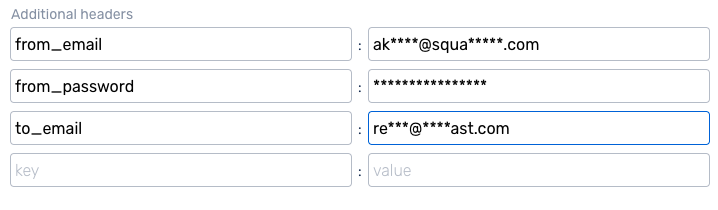
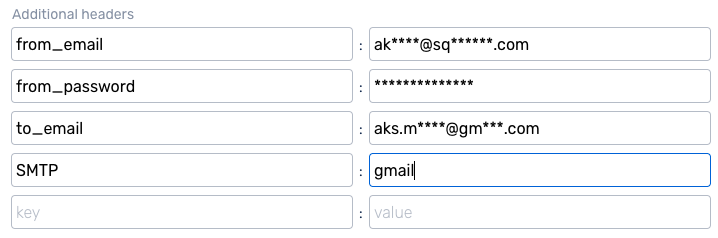
Readme Update

diff --git a/README.md b/README.md
@@ -54,5 +54,49 @@ Request Headers :-
 > URL : https://<Server-IP-Address>:5000/squadcast/middleware/email
 
 Request Headers :- 
-* To use the email webhook, just paste the URL mentioned above in Squadcast Webhook URl box. In the headers, just add "from_email", "from_password" & "to_email" and their proper values. Eg. : 
+* To use the email webhook, just paste the URL mentioned above in Squadcast Webhook URl box. In the headers, just add "from_email", "from_password", "to_email" & "SMTP" and their proper values. Eg. : 
 ![image](assets/email.png)
+
+List of SMTP Providers Supported : -
+* Service names are case insensitive : 
+"126"
+"163"
+"1und1"
+"AOL"
+"DebugMail"
+"DynectEmail"
+"FastMail"
+"GandiMail"
+"Gmail"
+"Godaddy"
+"GodaddyAsia"
+"GodaddyEurope"
+"hot.ee"
+"Hotmail"
+"iCloud"
+"mail.ee"
+"Mail.ru"
+"Maildev"
+"Mailgun"
+"Mailjet"
+"Mailosaur"
+"Mandrill"
+"Naver"
+"OpenMailBox"
+"Outlook365"
+"Postmark"
+"QQ"
+"QQex"
+"SendCloud"
+"SendGrid"
+"SendinBlue"
+"SendPulse"
+"SES"
+"SES-US-EAST-1"
+"SES-US-WEST-2"
+"SES-EU-WEST-1"
+"Sparkpost"
+"Yahoo"
+"Yandex"
+"Zoho"
+"qiye.aliyun"
